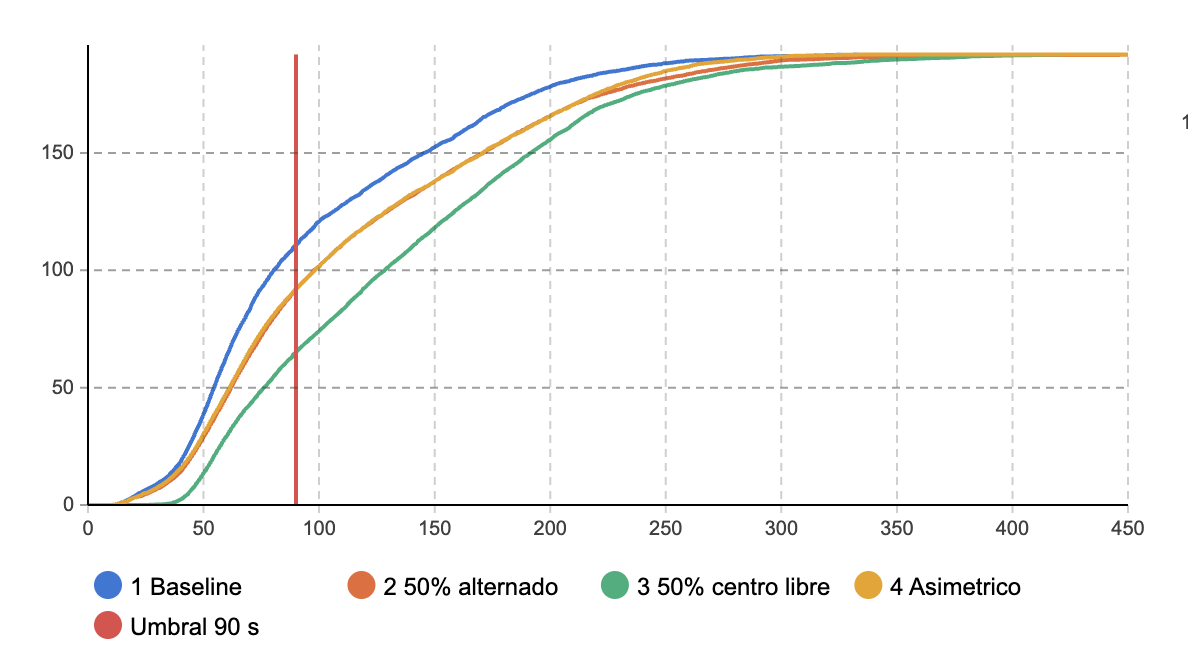
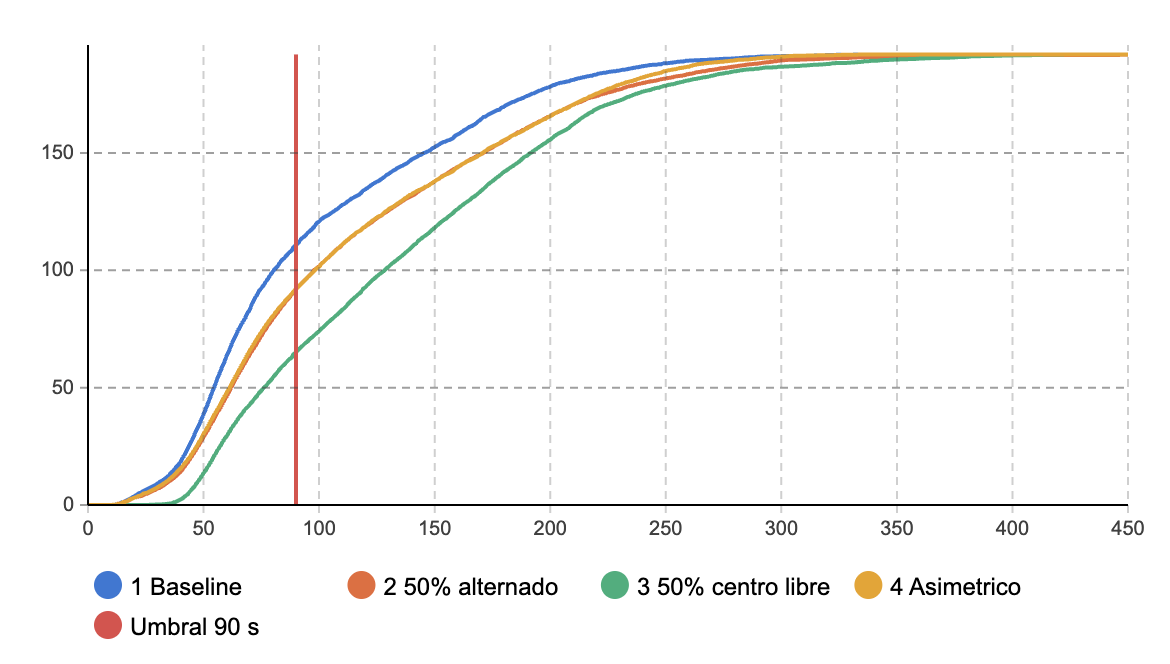
cambiado el informe con algunas acts, falta revisar que coincidan gráficos con valores de tabla

diff --git a/informe/informe_tpi.tex b/informe/informe_tpi.tex
@@ -542,15 +542,17 @@ contemplando pasajeros y tripulaci\'on completa.
 
 Se marcaron las 8 salidas de emergencia mediante componentes \textbf{\textit{target
 line}}, y se definieron nodos de \'area con nombres representativos para gestionar
-la l\'ogica de la simulaci\'on. Cada nodo cuenta con puntos
-\textbf{\textit{attractor}} ubicados sobre la posici\'on real de cada asiento,
-que se usaron para verificar que la geometr\'ia de cada bloque coincidiera con
-el espacio real de los asientos. Sin embargo, los agentes no nacen sobre esos
-puntos: el bloque \textbf{PedSource} solo acepta como origen una l\'inea, un
-punto o un nodo (en AnyLogic los \textit{attractors} fijan posiciones exactas
-\'unicamente para los bloques \textbf{PedGoTo} y \textbf{PedWait}), por lo que
-cada pasajero aparece en una posici\'on sorteada dentro del nodo del bloque de
-asientos de su lado (ver Tabla~\ref{tab:aclaraciones}).
+la l\'ogica de la simulaci\'on. Cada nodo cuenta con puntos \textbf{\textit{attractor}} ubicados sobre la
+posici\'on real de cada asiento. Se incorporaron al inicio del desarrollo con la
+intenci\'on de usarlos como posici\'on inicial de cada pasajero, pero en la versi\'on
+actual del modelo \textbf{no tienen efecto} sobre la simulaci\'on: ning\'un bloque los
+utiliza como destino ni como origen, y se conservan solo como referencia visual de
+la disposici\'on de los asientos. Esto se debe a que el bloque \textbf{PedSource}
+solo acepta como origen una l\'inea, un punto o un nodo (en AnyLogic los
+\textit{attractors} fijan posiciones exactas \'unicamente para los bloques
+\textbf{PedGoTo} y \textbf{PedWait}), por lo que cada pasajero aparece en una
+posici\'on sorteada dentro del nodo del bloque de asientos de su lado (ver
+Tabla~\ref{tab:aclaraciones}).
 
 Adicionalmente, se defini\'o un nodo central denominado
 ``\textbf{\textit{Valija}}'', con instanciamiento aleatorio de 4
@@ -787,7 +789,7 @@ a que la cabina quede completamente vac\'ia.
 \endfoot
 \textbf{Ancho de pasillo modelado} & \textbf{0.68 m} & Supuesto propio (estimaci\'on) & El respaldo del asiento ($\sim$1.05 m de altura) s\'i est\'a dentro del rango donde 14 CFR 25.815 exige 0.51 m como m\'inimo (aplicable desde 64 cm de altura hacia arriba). Por encima del respaldo, hasta la altura de los hombros de un pasajero de pie ($\sim$1.40 m), ya no hay asiento que restrinja el paso (solo el fuselaje, m\'as ancho a esa altura). Este valor fue estimado por nosotros porque nos permit\'ia que pasen dos personas por el mismo lugar del pasillo ``moviendo sus hombros'' y reflejaba la realidad. \\
 \midrule
-\textbf{Posici\'on inicial del pasajero} & \textbf{Sorteada de forma uniforme dentro del bloque de asientos de su lado, no en un asiento individual} & Adaptaci\'on propia (limitaci\'on t\'ecnica) & \textbf{PedSource} no permite instanciar agentes directamente sobre un punto de asiento (\textit{attractor}); solo acepta como origen un nodo, una l\'inea o un punto. Los 186 \textit{attractors} definidos originalmente s\'i se usaron para verificar que la geometr\'ia del bloque coincidiera con el espacio real de los asientos, pero no determinan la posici\'on de nacimiento de cada pasajero individual. \\
+\textbf{Posici\'on inicial del pasajero} & \textbf{Sorteada de forma uniforme dentro del bloque de asientos de su lado, no en un asiento individual} & Adaptaci\'on propia (limitaci\'on t\'ecnica) & \textbf{PedSource} no permite instanciar agentes directamente sobre un punto de asiento (\textit{attractor}); solo acepta como origen un nodo, una l\'inea o un punto. Los 186 \textit{attractors} de asientos se definieron al inicio con la intenci\'on de usarlos como posici\'on inicial, pero actualmente no tienen efecto sobre la simulaci\'on y se conservan solo como referencia visual. \\
 \midrule
 \textbf{Instante de inicio de la evacuaci\'on} & \textbf{Se activa expl\'icitamente para todos los agentes en el momento del amerizaje} & Decisi\'on de implementaci\'on propia & Definimos el instante ``$t=0$'' de todas las m\'etricas del informe (secci\'on~\ref{sub:metricas}): el cron\'ometro arranca con la se\~nal de evacuaci\'on, no con un proceso previo de acomodamiento de los agentes en el modelo. \\
 \midrule
@@ -1072,8 +1074,14 @@ pasajeros m\'as alejados de las salidas y la tripulaci\'on.
 \pendiente
     \centering
     \includegraphics[width=0.85\textwidth]{fig5_uso_salidas.png}
-    \caption{Ocupantes evacuados por cada salida (promedio por corrida) en cada
-    escenario. Las salidas bloqueadas en un escenario no registran evacuados.}
+        \caption{Ocupantes evacuados por cada salida (promedio por corrida) en cada
+    escenario. Eje horizontal: 1 = 1L (delantera izquierda), 2 = 1R (delantera
+    derecha), 3 = AlaFwdL (ala delantera izquierda), 4 = AlaFwdR (ala delantera
+    derecha), 5 = AlaAftL (ala trasera izquierda) y 6 = AlaAftR (ala trasera
+    derecha). Colores: azul = escenario 1 (Baseline), naranja = escenario 2 (50\%
+    alternado), verde = escenario 3 (50\% centro libre) y amarillo = escenario 4
+    (Asim\'etrico), igual que en la Figura~\ref{fig:barras}. Las salidas bloqueadas
+    en un escenario no registran evacuados.}
     \label{fig:uso_salidas}
 \end{figure}
 
